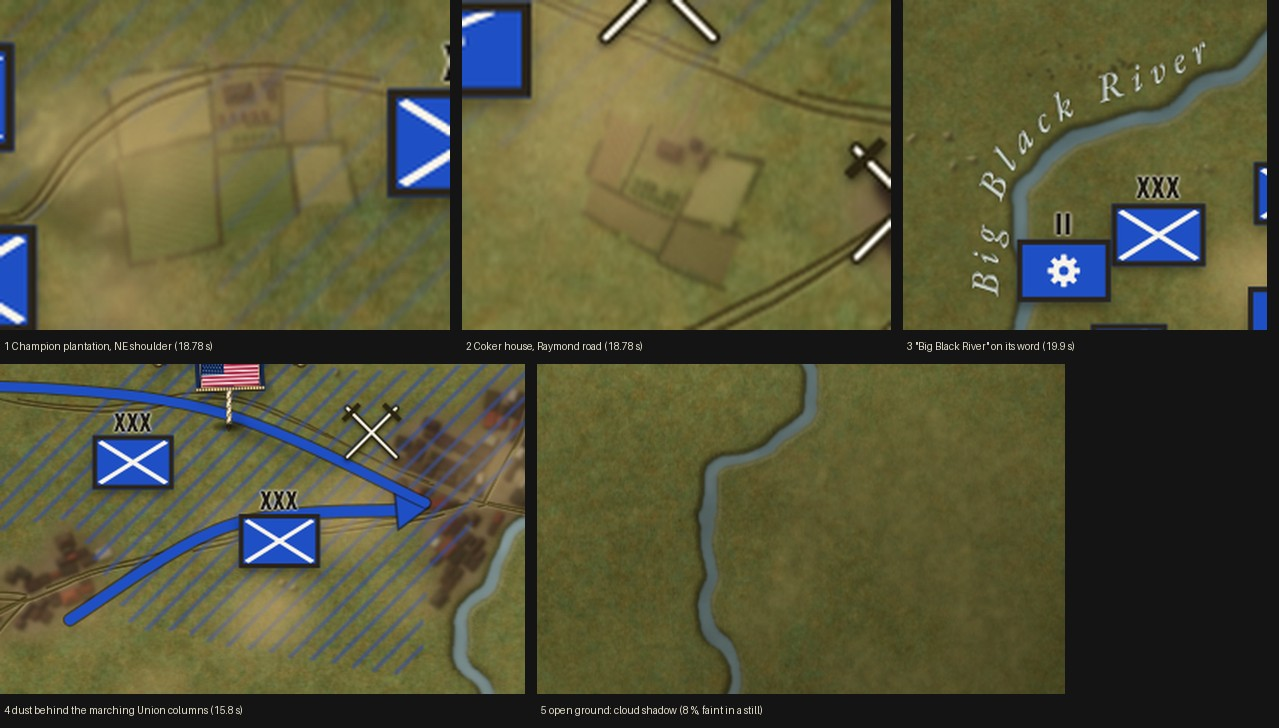
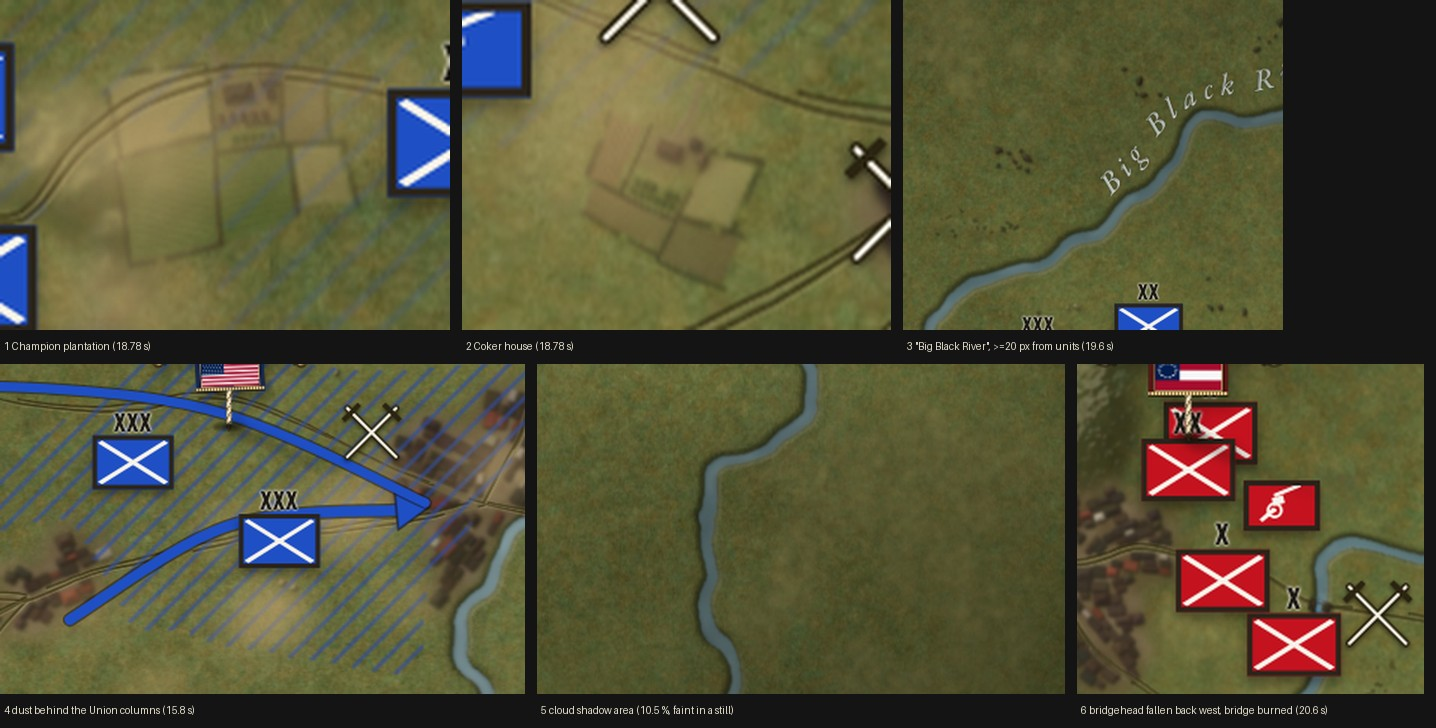
s12d_ml: Big Black rout as action, label spacing, softer light, clouds
Claude-Session: https://claude.ai/code/session_011uJnj9PFzMNram5mgUPnoT

diff --git a/grant/scenes-src/s12d_ml.js b/grant/scenes-src/s12d_ml.js
@@ -933,16 +933,16 @@ document.getElementById("relief2").after(RTL);   // above both basemaps, under h
 const RTH = [], RTHC = [];
 
 ["champion_hill", "vicksburg_bluffs"].forEach((h) => { [["", RTH, "relief"], ["_close", RTHC, "relief2"]].forEach(([suf, arr, after]) => {
-  const im = document.createElement("img"); im.src = `assets/rt/hill_${h}${suf}.png?v=1794355456`; im.alt = "";
+  const im = document.createElement("img"); im.src = `assets/rt/hill_${h}${suf}.png?v=1794356630`; im.alt = "";
   im.style.cssText = "position:absolute;left:0;top:0;width:2880px;height:1620px;pointer-events:none";
   const ref = document.getElementById(after); (arr.length ? arr[arr.length - 1] : ref).after(im); arr.push(im); }); });
 // cleared lanes through the woods (crossings.py), ABOVE the hill art (the hills' halo repaints the ground under it): wide above the wide hills, close above the close hills
 [["lanes_w", RTH, "relief"], ["lanes_close", RTHC, "relief2"]].forEach(([n, arr, after]) => { const im = document.createElement("img");
-  im.src = `assets/rt/${n}_1794355456.png`; im.alt = ""; im.style.cssText = "position:absolute;left:0;top:0;width:2880px;height:1620px;pointer-events:none";
+  im.src = `assets/rt/${n}_1794356630.png`; im.alt = ""; im.style.cssText = "position:absolute;left:0;top:0;width:2880px;height:1620px;pointer-events:none";
   (arr.length ? arr[arr.length - 1] : document.getElementById(after)).after(im); arr.push(im); });
 // ground texture (research/style_tests/roads_towns/texture): above the hills + lanes, under the roads/towns; the close one follows #relief2
 [["texture_w", RTH, "relief"], ["texture_close", RTHC, "relief2"], ["rivers_w", RTH, "relief"], ["rivers_close", RTHC, "relief2"]].forEach(([n, arr, after]) => { const im = document.createElement("img");
-  im.src = `assets/rt/${n}_1794355456.png`; im.alt = ""; im.style.cssText = "position:absolute;left:0;top:0;width:2880px;height:1620px;pointer-events:none";
+  im.src = `assets/rt/${n}_1794356630.png`; im.alt = ""; im.style.cssText = "position:absolute;left:0;top:0;width:2880px;height:1620px;pointer-events:none";
   (arr.length ? arr[arr.length - 1] : document.getElementById(after)).after(im); arr.push(im); });
 const rtHillSync = () => { const R2 = document.getElementById("relief2"); RTHC.forEach((im) => { im.style.opacity = R2.style.opacity;
   im.style.webkitMaskImage = im.style.maskImage = R2.style.maskImage || "none"; }); };
@@ -960,7 +960,7 @@ CURV.push([{ setAttribute: () => rtHillSync() }, 1]); rtHillSync();
   fl.innerHTML = '<feGaussianBlur stdDeviation="0.3"/>'; const df = document.createElementNS("http://www.w3.org/2000/svg", "defs"); df.appendChild(fl); sv.appendChild(df);
   const gg = document.createElementNS("http://www.w3.org/2000/svg", "g"); gg.setAttribute("filter", "url(#rtsoft)"); PS.filter((p) => p.tagName === "g").forEach((p) => gg.appendChild(p)); sv.appendChild(gg);
   // timber bridges, ferries, landings (crossings.py) UNDER the road line, so the road runs on over the deck at the same weight
-  ["bridges", "bb_ok", "bb_burned"].forEach((n) => { const bi = document.createElement("img"); bi.src = `assets/rt/${n}_1794355456.png`; bi.alt = ""; bi.id = "rt_" + n;
+  ["bridges", "bb_ok", "bb_burned"].forEach((n) => { const bi = document.createElement("img"); bi.src = `assets/rt/${n}_1794356630.png`; bi.alt = ""; bi.id = "rt_" + n;
     bi.style.cssText = "position:absolute;left:0;top:0;width:2880px;height:1620px;pointer-events:none"; RTL.appendChild(bi); });
   RTL.appendChild(sv); RTSV = sv; RTL.appendChild(document.getElementById("rt_bb_burned"));   // the burned span sits ABOVE the road: the road breaks at the gap
   const rtApply = (k) => { PS.forEach((p) => { if (p.__w) p.setAttribute("stroke-width", (p.__w * k).toFixed(3)); }); SH.forEach(([g, dx, dy]) => g.setAttribute("transform", `translate(${(dx * k).toFixed(3)} ${(dy * k).toFixed(3)})`)); fl.firstChild.setAttribute("stdDeviation", (0.35 * k).toFixed(3)); };
@@ -1079,7 +1079,7 @@ const BOX = (id, side, x, y, ech, kind) => { if (kind === "art") unitS(id, side,
 // Confederate bridgehead (east bank): 4 brigades + 2 of its batteries in the line (~18 guns were dug in there)
 // critic: a shallow arc bulging east, >= 8 px between each echelon mark and the box above, guns on the flanks
 BCX([BOX("cb1", "rome", 1550, 680, "X"), BOX("cb2", "rome", 1555, 710, "X"), BOX("cb3", "rome", 1555, 740, "X"), BOX("cb4", "rome", 1550, 770, "X"),
-     BOX("ca1", "rome", 1526, 724, "", "art"), BOX("ca2", "rome", 1526, 754, "", "art")], T_17 + 0.3, T_BB + 0.9);   /* polish: the whole line inside the bend east of the river (Vaughn, Green, Cockrell); guns behind + on the south flank */ tl.to(B.units.rs.el, { autoAlpha: 0, duration: 0.6 }, T_17);
+     BOX("ca1", "rome", 1526, 724, "", "art"), BOX("ca2", "rome", 1526, 754, "", "art")], T_17 + 0.3, null);   /* polish: the whole line inside the bend east of the river (Vaughn, Green, Cockrell); guns behind + on the south flank */ tl.to(B.units.rs.el, { autoAlpha: 0, duration: 0.6 }, T_17);
 B.move("u13", T_17, 1.2, 1652, 650);   /* s12d_bc: McClernand's corps box behind his divisions */
 // Union: McClernand's 3 divisions in front with 2 batteries, cavalry on the north flank, McPherson and Sherman behind, pioneers bridging the river near Bridgeport
 // critic: ~60-70 px between the red and blue boxes, a shallow arc (ends forward), guns on the flanks; Sherman + his pioneers EAST of the Big Black at Bridgeport (no pontoon before the night of 17 May)
@@ -1089,7 +1089,12 @@ BCX([BOX("d13a", "carth", 1616, 650, "XX"), BOX("d13b", "carth", 1612, 682, "XX"
 mg(L(32.385, -90.67), L(32.37, -90.70), T_BB + 0.3, 5, 1.1 / 1.9 * 2.2);
 MARK([1534, 708], T_BB);   /* s12d_ml: name given by the river label */   /* s12d_rt polish: mark on the Big Black bridge approach, east bank (the Confederate unit stands on the bridge until it falls back) */
 { const ok = document.getElementById("rt_bb_ok"), bx = document.getElementById("rt_bb_burned"); gsap.set(bx, { autoAlpha: 0 });   /* s12d_rt: the Confederates burn the Big Black bridge */
-  tl.to(bx, { autoAlpha: 1, duration: 0.6 }, T_BB + 1.5); tl.to(ok, { autoAlpha: 0, duration: 0.6 }, T_BB + 1.5); }
+  tl.to(bx, { autoAlpha: 1, duration: 0.3 }, T_BB + 1.55); tl.to(ok, { autoAlpha: 0, duration: 0.3 }, T_BB + 1.55); }   /* s12d_ml: burns as the last box crosses */
+{ const TR = T_BB + 0.6;   /* s12d_ml: ~0.8 s after the mark the bridgehead falls back west over the bridge (1.5 s); cb4 + its battery are cut off (captured) */
+  [["cb1", 1466, 634, 0], ["ca1", 1494, 663, 0.1], ["cb2", 1466, 693, 0.2], ["cb3", 1494, 724, 0.3]].forEach(([id, x, y, d]) => {
+    tl.to(B.units[id].el, { keyframes: [{ left: 1522 - B.units[id].w / 2, top: 706 - B.units[id].h / 2, duration: 0.6, ease: "power1.in" }, { left: x - B.units[id].w / 2, top: y - B.units[id].h / 2, duration: 0.6, ease: "power1.out" }] }, TR + d);
+    tl.to(B.units[id].el, { autoAlpha: 0, duration: 0.5 }, Math.max(T_EVERY, TR + 1.7)); });
+  ["cb4", "ca2"].forEach((id) => tl.to(B.units[id].el, { autoAlpha: 0, duration: 0.4 }, TR + 0.4)); }
 B.move("rv", T_BB + 1.0, 1.2, ...L(32.40, -90.79)); B.move("re", T_BB + 1.1, 1.2, ...L(32.30, -90.79));
 // ---------- "A battle every three or four days" (wide: all five marks + the route) ----------
 inkTrace(LL([[31.961, -90.984], [32.08, -90.74], [32.259, -90.422], [32.299, -90.185], [32.34, -90.36], [32.333, -90.535], [32.347, -90.716]]), T_EVERY + 0.3, T_ATE + 0.6, 2.6);
@@ -1130,9 +1135,10 @@ fixImgs();
 K.raiseTerritory();
 { const LV = LivingW({ tl });   /* s12d_ml: living map (no weather: the Big Black weather is unverified) */
   LV.water("assets/mask_water.png", { paths: [RIVERS_PX.mississippi.pts, RIVERS_PX.big_black.pts, RIVERS_PX.pearl.pts], lanes: { 0: [-5, 0, 5] } });
-  LV.clouds({ t0: 0, t1: END });
+  LV.clouds({ t0: 0, t1: END, opacity: 0.105 });
   ["u13", "u17", "u15"].forEach((id) => LV.dust(B.units[id].el, 0.2, END, { opacity: 0.55, size: 52 }));   // dust behind the Union columns while they march
-  LV.light("afternoon", 0, { dur: 0 });
-  riverLabel("bb", "Big Black River", RIVERS_PX.big_black.pts, T_BB, { s: 1.9, size: 25, hw: 4.5, near: [1597, 554], side: "left", tl }); }
+  { const lg = document.createElement("div"); lg.style.cssText = "position:absolute;left:0;top:0;width:2880px;height:1620px;pointer-events:none;mix-blend-mode:soft-light;opacity:0.12;" +
+      "background:linear-gradient(110deg, rgba(255,165,80,.6) 0%, rgba(255,165,80,.35) 45%, rgba(255,165,80,0) 85%)"; WORLD.insertBefore(lg, OVL); }   /* warm 4 PM light from the west */
+  riverLabel("bb", "Big Black River", RIVERS_PX.big_black.pts, T_BB, { s: 1.9, size: 25, hw: 4.5, near: [1712, 479], side: "left", tl }); }
 window.__RT_T = { T_CH, T_17, T_16, T_BB };
 B.finish();

diff --git a/grant/tools/s12_body_s12d_ml.js b/grant/tools/s12_body_s12d_ml.js
@@ -364,16 +364,16 @@ document.getElementById("relief2").after(RTL);   // above both basemaps, under h
 const RTH = [], RTHC = [];
 
 ["champion_hill", "vicksburg_bluffs"].forEach((h) => { [["", RTH, "relief"], ["_close", RTHC, "relief2"]].forEach(([suf, arr, after]) => {
-  const im = document.createElement("img"); im.src = `assets/rt/hill_${h}${suf}.png?v=1794355456`; im.alt = "";
+  const im = document.createElement("img"); im.src = `assets/rt/hill_${h}${suf}.png?v=1794356630`; im.alt = "";
   im.style.cssText = "position:absolute;left:0;top:0;width:2880px;height:1620px;pointer-events:none";
   const ref = document.getElementById(after); (arr.length ? arr[arr.length - 1] : ref).after(im); arr.push(im); }); });
 // cleared lanes through the woods (crossings.py), ABOVE the hill art (the hills' halo repaints the ground under it): wide above the wide hills, close above the close hills
 [["lanes_w", RTH, "relief"], ["lanes_close", RTHC, "relief2"]].forEach(([n, arr, after]) => { const im = document.createElement("img");
-  im.src = `assets/rt/${n}_1794355456.png`; im.alt = ""; im.style.cssText = "position:absolute;left:0;top:0;width:2880px;height:1620px;pointer-events:none";
+  im.src = `assets/rt/${n}_1794356630.png`; im.alt = ""; im.style.cssText = "position:absolute;left:0;top:0;width:2880px;height:1620px;pointer-events:none";
   (arr.length ? arr[arr.length - 1] : document.getElementById(after)).after(im); arr.push(im); });
 // ground texture (research/style_tests/roads_towns/texture): above the hills + lanes, under the roads/towns; the close one follows #relief2
 [["texture_w", RTH, "relief"], ["texture_close", RTHC, "relief2"], ["rivers_w", RTH, "relief"], ["rivers_close", RTHC, "relief2"]].forEach(([n, arr, after]) => { const im = document.createElement("img");
-  im.src = `assets/rt/${n}_1794355456.png`; im.alt = ""; im.style.cssText = "position:absolute;left:0;top:0;width:2880px;height:1620px;pointer-events:none";
+  im.src = `assets/rt/${n}_1794356630.png`; im.alt = ""; im.style.cssText = "position:absolute;left:0;top:0;width:2880px;height:1620px;pointer-events:none";
   (arr.length ? arr[arr.length - 1] : document.getElementById(after)).after(im); arr.push(im); });
 const rtHillSync = () => { const R2 = document.getElementById("relief2"); RTHC.forEach((im) => { im.style.opacity = R2.style.opacity;
   im.style.webkitMaskImage = im.style.maskImage = R2.style.maskImage || "none"; }); };
@@ -391,7 +391,7 @@ CURV.push([{ setAttribute: () => rtHillSync() }, 1]); rtHillSync();
   fl.innerHTML = '<feGaussianBlur stdDeviation="0.3"/>'; const df = document.createElementNS("http://www.w3.org/2000/svg", "defs"); df.appendChild(fl); sv.appendChild(df);
   const gg = document.createElementNS("http://www.w3.org/2000/svg", "g"); gg.setAttribute("filter", "url(#rtsoft)"); PS.filter((p) => p.tagName === "g").forEach((p) => gg.appendChild(p)); sv.appendChild(gg);
   // timber bridges, ferries, landings (crossings.py) UNDER the road line, so the road runs on over the deck at the same weight
-  ["bridges", "bb_ok", "bb_burned"].forEach((n) => { const bi = document.createElement("img"); bi.src = `assets/rt/${n}_1794355456.png`; bi.alt = ""; bi.id = "rt_" + n;
+  ["bridges", "bb_ok", "bb_burned"].forEach((n) => { const bi = document.createElement("img"); bi.src = `assets/rt/${n}_1794356630.png`; bi.alt = ""; bi.id = "rt_" + n;
     bi.style.cssText = "position:absolute;left:0;top:0;width:2880px;height:1620px;pointer-events:none"; RTL.appendChild(bi); });
   RTL.appendChild(sv); RTSV = sv; RTL.appendChild(document.getElementById("rt_bb_burned"));   // the burned span sits ABOVE the road: the road breaks at the gap
   const rtApply = (k) => { PS.forEach((p) => { if (p.__w) p.setAttribute("stroke-width", (p.__w * k).toFixed(3)); }); SH.forEach(([g, dx, dy]) => g.setAttribute("transform", `translate(${(dx * k).toFixed(3)} ${(dy * k).toFixed(3)})`)); fl.firstChild.setAttribute("stdDeviation", (0.35 * k).toFixed(3)); };
@@ -510,7 +510,7 @@ const BOX = (id, side, x, y, ech, kind) => { if (kind === "art") unitS(id, side,
 // Confederate bridgehead (east bank): 4 brigades + 2 of its batteries in the line (~18 guns were dug in there)
 // critic: a shallow arc bulging east, >= 8 px between each echelon mark and the box above, guns on the flanks
 BCX([BOX("cb1", "rome", 1550, 680, "X"), BOX("cb2", "rome", 1555, 710, "X"), BOX("cb3", "rome", 1555, 740, "X"), BOX("cb4", "rome", 1550, 770, "X"),
-     BOX("ca1", "rome", 1526, 724, "", "art"), BOX("ca2", "rome", 1526, 754, "", "art")], T_17 + 0.3, T_BB + 0.9);   /* polish: the whole line inside the bend east of the river (Vaughn, Green, Cockrell); guns behind + on the south flank */ tl.to(B.units.rs.el, { autoAlpha: 0, duration: 0.6 }, T_17);
+     BOX("ca1", "rome", 1526, 724, "", "art"), BOX("ca2", "rome", 1526, 754, "", "art")], T_17 + 0.3, null);   /* polish: the whole line inside the bend east of the river (Vaughn, Green, Cockrell); guns behind + on the south flank */ tl.to(B.units.rs.el, { autoAlpha: 0, duration: 0.6 }, T_17);
 B.move("u13", T_17, 1.2, 1652, 650);   /* s12d_bc: McClernand's corps box behind his divisions */
 // Union: McClernand's 3 divisions in front with 2 batteries, cavalry on the north flank, McPherson and Sherman behind, pioneers bridging the river near Bridgeport
 // critic: ~60-70 px between the red and blue boxes, a shallow arc (ends forward), guns on the flanks; Sherman + his pioneers EAST of the Big Black at Bridgeport (no pontoon before the night of 17 May)
@@ -520,7 +520,12 @@ BCX([BOX("d13a", "carth", 1616, 650, "XX"), BOX("d13b", "carth", 1612, 682, "XX"
 mg(L(32.385, -90.67), L(32.37, -90.70), T_BB + 0.3, 5, 1.1 / 1.9 * 2.2);
 MARK([1534, 708], T_BB);   /* s12d_ml: name given by the river label */   /* s12d_rt polish: mark on the Big Black bridge approach, east bank (the Confederate unit stands on the bridge until it falls back) */
 { const ok = document.getElementById("rt_bb_ok"), bx = document.getElementById("rt_bb_burned"); gsap.set(bx, { autoAlpha: 0 });   /* s12d_rt: the Confederates burn the Big Black bridge */
-  tl.to(bx, { autoAlpha: 1, duration: 0.6 }, T_BB + 1.5); tl.to(ok, { autoAlpha: 0, duration: 0.6 }, T_BB + 1.5); }
+  tl.to(bx, { autoAlpha: 1, duration: 0.3 }, T_BB + 1.55); tl.to(ok, { autoAlpha: 0, duration: 0.3 }, T_BB + 1.55); }   /* s12d_ml: burns as the last box crosses */
+{ const TR = T_BB + 0.6;   /* s12d_ml: ~0.8 s after the mark the bridgehead falls back west over the bridge (1.5 s); cb4 + its battery are cut off (captured) */
+  [["cb1", 1466, 634, 0], ["ca1", 1494, 663, 0.1], ["cb2", 1466, 693, 0.2], ["cb3", 1494, 724, 0.3]].forEach(([id, x, y, d]) => {
+    tl.to(B.units[id].el, { keyframes: [{ left: 1522 - B.units[id].w / 2, top: 706 - B.units[id].h / 2, duration: 0.6, ease: "power1.in" }, { left: x - B.units[id].w / 2, top: y - B.units[id].h / 2, duration: 0.6, ease: "power1.out" }] }, TR + d);
+    tl.to(B.units[id].el, { autoAlpha: 0, duration: 0.5 }, Math.max(T_EVERY, TR + 1.7)); });
+  ["cb4", "ca2"].forEach((id) => tl.to(B.units[id].el, { autoAlpha: 0, duration: 0.4 }, TR + 0.4)); }
 B.move("rv", T_BB + 1.0, 1.2, ...L(32.40, -90.79)); B.move("re", T_BB + 1.1, 1.2, ...L(32.30, -90.79));
 // ---------- "A battle every three or four days" (wide: all five marks + the route) ----------
 inkTrace(LL([[31.961, -90.984], [32.08, -90.74], [32.259, -90.422], [32.299, -90.185], [32.34, -90.36], [32.333, -90.535], [32.347, -90.716]]), T_EVERY + 0.3, T_ATE + 0.6, 2.6);
@@ -561,9 +566,10 @@ fixImgs();
 K.raiseTerritory();
 { const LV = LivingW({ tl });   /* s12d_ml: living map (no weather: the Big Black weather is unverified) */
   LV.water("assets/mask_water.png", { paths: [RIVERS_PX.mississippi.pts, RIVERS_PX.big_black.pts, RIVERS_PX.pearl.pts], lanes: { 0: [-5, 0, 5] } });
-  LV.clouds({ t0: 0, t1: END });
+  LV.clouds({ t0: 0, t1: END, opacity: 0.105 });
   ["u13", "u17", "u15"].forEach((id) => LV.dust(B.units[id].el, 0.2, END, { opacity: 0.55, size: 52 }));   // dust behind the Union columns while they march
-  LV.light("afternoon", 0, { dur: 0 });
-  riverLabel("bb", "Big Black River", RIVERS_PX.big_black.pts, T_BB, { s: 1.9, size: 25, hw: 4.5, near: [1597, 554], side: "left", tl }); }
+  { const lg = document.createElement("div"); lg.style.cssText = "position:absolute;left:0;top:0;width:2880px;height:1620px;pointer-events:none;mix-blend-mode:soft-light;opacity:0.12;" +
+      "background:linear-gradient(110deg, rgba(255,165,80,.6) 0%, rgba(255,165,80,.35) 45%, rgba(255,165,80,0) 85%)"; WORLD.insertBefore(lg, OVL); }   /* warm 4 PM light from the west */
+  riverLabel("bb", "Big Black River", RIVERS_PX.big_black.pts, T_BB, { s: 1.9, size: 25, hw: 4.5, near: [1712, 479], side: "left", tl }); }
 window.__RT_T = { T_CH, T_17, T_16, T_BB };
 B.finish();

diff --git a/research/style_tests/more_life/ml_patch.py b/research/style_tests/more_life/ml_patch.py
@@ -38,3 +38,19 @@ window.__RT_T = {''', 1)
 src = src.replace("scene s12d_bc = s12d_rt +", "scene s12d_ml = s12d_bc + farms, river label, living map (ml_patch.py); s12d_bc = s12d_rt +", 1)
 # the river now carries its own carved name on "the Big Black": drop the duplicate white battle name (it sat on the Vicksburg label); the mark stays
 rep('BAT("BIG BLACK", BBR, T_BB, T_EVERY + 0.4, -40, 85, [1534, 708]);', 'MARK([1534, 708], T_BB);   /* s12d_ml: name given by the river label */')
+# ---- critic fix 1: the bridgehead rout as ACTION on "the Big Black" (mark -> retreat over the bridge -> bridge burns -> captured boxes fade)
+rep('''BOX("ca1", "rome", 1526, 724, "", "art"), BOX("ca2", "rome", 1526, 754, "", "art")], T_17 + 0.3, T_BB + 0.9);''',
+    '''BOX("ca1", "rome", 1526, 724, "", "art"), BOX("ca2", "rome", 1526, 754, "", "art")], T_17 + 0.3, null);''')
+rep('''  tl.to(bx, { autoAlpha: 1, duration: 0.6 }, T_BB + 1.5); tl.to(ok, { autoAlpha: 0, duration: 0.6 }, T_BB + 1.5); }''',
+'''  tl.to(bx, { autoAlpha: 1, duration: 0.3 }, T_BB + 1.55); tl.to(ok, { autoAlpha: 0, duration: 0.3 }, T_BB + 1.55); }   /* s12d_ml: burns as the last box crosses */
+{ const TR = T_BB + 0.6;   /* s12d_ml: ~0.8 s after the mark the bridgehead falls back west over the bridge (1.5 s); cb4 + its battery are cut off (captured) */
+  [["cb1", 1466, 634, 0], ["ca1", 1494, 663, 0.1], ["cb2", 1466, 693, 0.2], ["cb3", 1494, 724, 0.3]].forEach(([id, x, y, d]) => {
+    tl.to(B.units[id].el, { keyframes: [{ left: 1522 - B.units[id].w / 2, top: 706 - B.units[id].h / 2, duration: 0.6, ease: "power1.in" }, { left: x - B.units[id].w / 2, top: y - B.units[id].h / 2, duration: 0.6, ease: "power1.out" }] }, TR + d);
+    tl.to(B.units[id].el, { autoAlpha: 0, duration: 0.5 }, Math.max(T_EVERY, TR + 1.7)); });
+  ["cb4", "ca2"].forEach((id) => tl.to(B.units[id].el, { autoAlpha: 0, duration: 0.4 }, TR + 0.4)); }''')
+# ---- fix 2: river label further up the river, clear of the pioneers and Sherman
+rep('near: [1597, 554], side: "left", tl }', 'near: [1712, 479], side: "left", tl }')
+# ---- fix 3: afternoon light as a broad, weaker diagonal gradient from the west; fix 4: clouds ~10.5 %
+rep('  LV.light("afternoon", 0, { dur: 0 });', '''  { const lg = document.createElement("div"); lg.style.cssText = "position:absolute;left:0;top:0;width:2880px;height:1620px;pointer-events:none;mix-blend-mode:soft-light;opacity:0.12;" +
+      "background:linear-gradient(110deg, rgba(255,165,80,.6) 0%, rgba(255,165,80,.35) 45%, rgba(255,165,80,0) 85%)"; WORLD.insertBefore(lg, OVL); }   /* warm 4 PM light from the west */''')
+rep('LV.clouds({ t0: 0, t1: END });', 'LV.clouds({ t0: 0, t1: END, opacity: 0.105 });')
